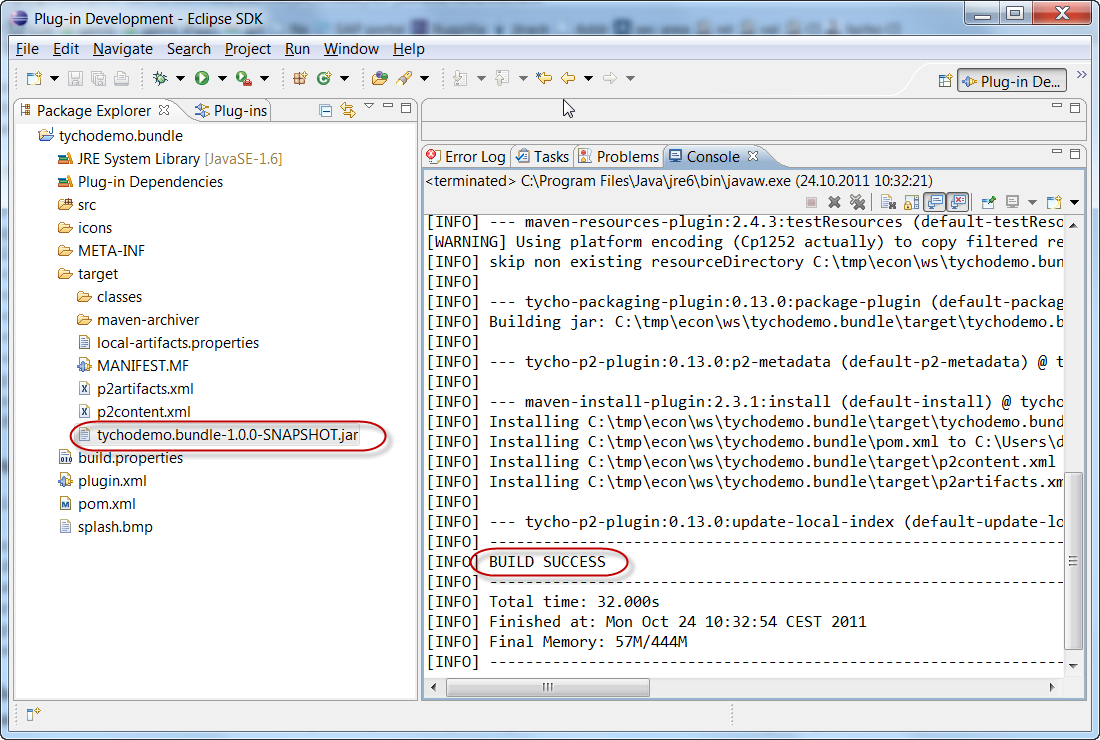
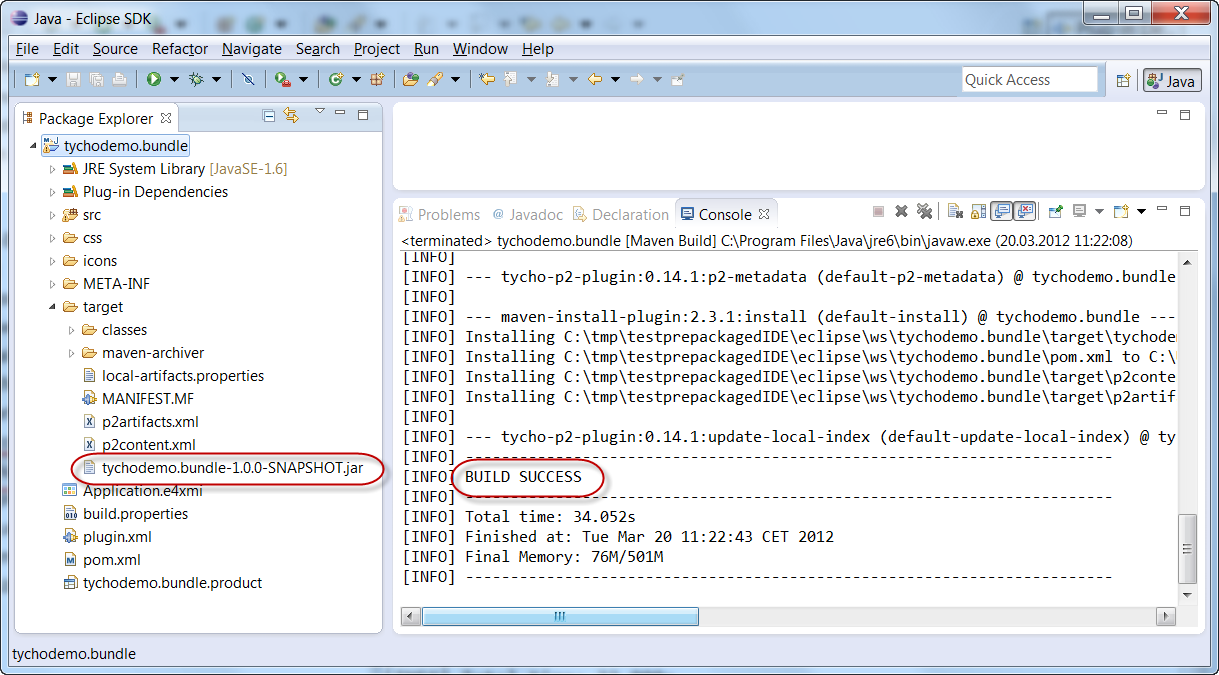
Update exercise 1 to use e4 RCP

diff --git a/exercises/Exercise_01_Create_RCP_Bundle/README.html b/exercises/Exercise_01_Create_RCP_Bundle/README.html
@@ -1,72 +1,70 @@
 <!DOCTYPE html PUBLIC "-//W3C//DTD XHTML 1.0 Transitional//EN" "http://www.w3.org/TR/xhtml1/DTD/xhtml1-transitional.dtd">
 <html xmlns="http://www.w3.org/1999/xhtml">
 <head>
-<title>EclipseCon 2011 Tycho Tutorial - Exercise 1</title>
+<title>EclipseCon 2012 Tycho Tutorial - Exercise 1</title>
 </head>
 <body>
 <p align="center">
  <a href="../../README.html">TOC</a> | <a href="../Exercise_02_Add_Test_Fragment/tychodemo.parent/README.html">Next Exercise&gt;</a> 
 </p>
-<h2>Exercise 1: Create and build a "Hello World" RCP plugin using Tycho</h2>
+<h2>Exercise 1: Create and build a "Hello World" e4 RCP plugin using Tycho</h2>
 
-In this exercise, we will use the project templates shipped with eclipse to create a simple "Hello World" Rich Client Platform plugin.<br/>
-We will compile and run the plugin from the IDE and then show how to build it with tycho by simply adding a Maven <tt>pom.xml</tt> project file.
+In this exercise, we will use the e4 tools to create a simple "Hello World" e4 Rich Client Platform plugin.<br/>
+We will compile and run the plugin from the IDE and then show how to build it with tycho by converting it to Maven project.
 <ol>
-<li>Create a new plugin project with name <tt>tychodemo.bundle</tt>
+<li>Create a new e4 Application with name <tt>tychodemo.bundle</tt>
 <ul>
-<li><tt>File > New > Project > Plugin Project</tt></li>
-<li>Choose "Create a rich client application" and use the "Hello RCP" template to create a hello-world RCP bundle</li>
-<li>Enter window title "Tycho Demo RCP"</li>
-<li>Check "Add branding" (Note: we will need this later when building a product)</li>
+<li><tt>File > New > Project > e4 > e4 Application Project</tt></li>
+<li>Enter "tychodemo.bundle" as project name</li>
+<li>In "Content", enter Name: "Tycho Demo Bundle"</li>
+<li>In "e4 Application", keep all default values and press Finish</li>
 <table>
 <tr>
-<td valign="top"><img src ="resources/create_plugin_0.png" /></td>
-<td valign="top"><img src ="resources/create_plugin_1.png" /></td>
+<td valign="top"><img src ="resources/new_e4_app.png" /></td>
+<td valign="top"><img src ="resources/new_e4_app_1.png" /></td>
 </tr>
 <tr>
-<td valign="top"><img src ="resources/create_plugin_2.png" /></td>
-<td valign="top"><img src ="resources/create_plugin_3.png" /></td>
+<td valign="top"><img src ="resources/new_e4_app_2.png" /></td>
+<td valign="top"><img src ="resources/new_e4_app_3.png" /></td>
 </tr>
 </table>
 </ul>
 <li>Run the application to check if it works:
 <ul>
- <li>Create a new "Eclipse Application" launch configuration using <tt>Run > Run Configurations... > Eclipse Application > New</tt></li>
- <li>Choose "Run a product" and select <tt>tychodemo.bundle.product</tt><br/>
- <img src="resources/run_configuration.png"/>
+ <li>Open the Product definition file <tt>tychodemo.bundle.product</tt>, tab "Overview"</li>
+ <li>Enter ID "tychodemo.product" and press "Launch an Eclipse application"<br/>
+ <img src="resources/product_1.png"/>
  </li>
  
- <li>You should see a splash screen followed by an empty RCP window with title "Tycho Demo RCP".<br/>
-  <img src="resources/rcp_screen.png"/>
+ <li>You should see a small RCP window with title "tychodemo.bundle".<br/>
+  <img src="resources/screenshot_1.png"/>
 
    </li>
- <li>Hint: to avoid starting lots of unneeded bundles slowing down startup:
-      <ul>
-	   <li>go to the Plug-ins tab of the launch configuration</li>
-       <li>under "Launch with:", select "Plug-ins selected below only"</li>
-       <li>uncheck all plugins in the target platform and only check "tychodemo.bundle" from the workspace</li>
-       <li>press "Add Required Plug-ins"</li>
-	   </ul>
-   Now only the plugins (transitively) required by <tt>tychodemo.bundle</tt> will be started.
+ <li>Open the <tt>Help > About</tt> menu. A dialog box should appear:<br/>
+  <img src="resources/about_1.png"/>
+ 
+ </li>
+ <li>Open <tt>tychodemo.bundle.handlers.AboutHandler</tt> and change the about text from <tt>"e4 Application example."</tt> to <tt>"Tycho Demo RCP"</tt><br/>
+ <img src ="resources/about_2.png" /></li>
+<li>Open <tt>tychodemo.bundle.product</tt> and launch the Eclipse application again. Open the <tt>Help > About</tt> dialog. You should see your message now: <br/>
+<img src ="resources/about_3.png" />
  </li>
  </ul>
- <li>Add a maven project file <tt>pom.xml</tt> in the root of the project using <tt>File > New > File > pom.xml</tt> and paste the following content:
-<pre>
-&lt;?xml version="1.0" encoding="UTF-8"?&gt;
-&lt;project
-  xsi:schemaLocation="http://maven.apache.org/POM/4.0.0 http://maven.apache.org/xsd/maven-4.0.0.xsd" xmlns="http://maven.apache.org/POM/4.0.0" xmlns:xsi="http://www.w3.org/2001/XMLSchema-instance"&gt;
-  &lt;modelVersion&gt;4.0.0&lt;/modelVersion&gt;
-  
-  &lt;groupId&gt;tychodemo&lt;/groupId&gt;
-  &lt;artifactId&gt;tychodemo.bundle&lt;/artifactId&gt;
-  &lt;version&gt;1.0.0-SNAPSHOT&lt;/version&gt;
-  
-  &lt;packaging&gt;eclipse-plugin&lt;/packaging&gt;
-&lt;/project&gt;
-</pre>
-</li>
+ <li>Right-click the <tt>tychodemo.bundle</tt> project and select <tt>Configure > Convert to Maven Project</tt><br/>
+   <img src ="resources/convert_to_maven_1.png" />
+ </li>
+ <li>Enter <tt>Group Id: tychodemo</tt>, <tt>Version: 1.0.0-SNAPSHOT</tt>, <tt>Packaging: eclipse-plugin</tt>.<br/>
+   <img src ="resources/convert_to_maven_2.png" />
+ </li>
  Note that <tt>MANIFEST/Bundle-SymbolicName == POM/artifactId</tt> and <tt>MANIFEST/&lt;Bundle-Version&gt;.qualifier == POM/&lt;version&gt;-SNAPSHOT</tt>
-
+<li>
+You will get a build error on the newly created file <tt>pom.xml</tt>: <tt>"Project build error: Unknown packaging: eclipse-plugin"</tt>.<br/>
+This is expected, because the tycho build extension is not yet configured (see next steps).<br/>
+   <img src ="resources/build_error.png" />
+</li>
+ 
+<li>Open <tt>pom.xml</tt>, go to Tab "pom.xml". Remove the complete <tt>&lt;build&gt;</tt> element (this is an <a href="https://bugs.eclipse.org/bugs/show_bug.cgi?id=374742">m2eclipse bug</a>).<br/>
+   <img src ="resources/remove_build_section.png" />
 <li> To define the tycho version to be used, add this snippet into <tt>&lt;project&gt;</tt> :
 
 <pre>
@@ -92,46 +90,42 @@ We will compile and run the plugin from the IDE and then show how to build it wi
 </pre>
 </li>
 
-<li> To build against the Indigo p2 repository, add this snippet in <tt>&lt;project&gt;</tt>:
-
+<li>Make your build network-independent:
+<ul>
+<li>
+To build against your local p2 repository, add this snippet in <tt>&lt;project&gt;</tt> and change the file URL to point to the folder <tt>tutorial/p2_repository/</tt> which you copied earlier from the USB stick:
 <pre>
   &lt;repositories&gt;
     &lt;!-- configure p2 repository to resolve against --&gt;
     &lt;repository&gt;
-      &lt;id&gt;indigo&lt;/id&gt;
+      &lt;id&gt;juno-local&lt;/id&gt;
       &lt;layout&gt;p2&lt;/layout&gt;
-      &lt;url&gt;http://download.eclipse.org/releases/indigo/&lt;/url&gt;
+      &lt;url&gt;file:/PATH/TO/tutorial/p2_repository/&lt;/url&gt;
     &lt;/repository&gt;
   &lt;/repositories&gt;
 </pre>
-NOTE: Should the Indigo p2 repository be too slow/unavailable, you may get an error like <br/>
-<img src="resources/indigo_failed.png"/>
 <br/>
-
-
-        In this case, you can use a local p2 repository as a fallback.<br/> Enter the file URL to the folder <tt>tutorial/repository/</tt> which 
-		you copied from the USB stick during setup:
+Note: The local p2 repository we provide on the USB stick is a subset mirrored from the <a href="http://download.eclipse.org/releases/juno/">Juno p2 repository</a>.<br/>
+Using the local p2 repository avoids network problems during the tutorial and works around one open <a href="https://bugs.eclipse.org/bugs/show_bug.cgi?id=355433 ">bug in the Juno p2 repo</a>.
+	
 </li>
 
-		<pre>
-  &lt;repositories&gt;
-    &lt;!-- resolve against local p2 repository --&gt;
-    &lt;repository&gt;
-      &lt;id&gt;indigo_local&lt;/id&gt;
-      &lt;layout&gt;p2&lt;/layout&gt;
-      &lt;url&gt;file:/absolute/path/to/repository-folder/copied/from/usb-stick/&lt;/url&gt;
-    &lt;/repository&gt;
-  &lt;/repositories&gt;
-		</pre>
-  Should <tt><a href="http://repo1.maven.org">Maven Central (http://repo1.maven.org)</a></tt> be too slow or unavailable, you can use a pre-filled local maven repository as fallback.<br/>
-  In this case, copy the content of folder <tt>tutorial/maven_repository</tt> to <tt>${user.home}/.m2/repository</tt>.
-
-<li> Right-click pom.xml <tt>Run As > Maven install</tt> (or run <tt>mvn install</tt> on the command prompt)<br/>
-<img src="resources/run_maven_install.png"/>
+<li> To be independent of network access to <tt><a href="http://repo1.maven.org">Maven Central (http://repo1.maven.org)</a></tt>, use the pre-filled local maven repository from the USB stick:<br/>
+Copy the content of folder <tt>tutorial/maven_repository</tt> to <tt>~/.m2/repository/</tt> (Linux/Mac) or <tt>%USERPROFILE%/.m2/repository/</tt> (Windows).
+</li>
+</ul>
 </li>
 
-<li> expected result is a <tt>SUCCESSFUL</tt> build with the bundle jar 
+<li> Right-click the tychodemo.bundle project and select <tt>Run As > Maven build</tt> <br/>
+<img src="resources/run_maven_1.png"/>
+</li>
+<li> Enter  <tt>Goals: clean install</tt> <br/>
+<img src="resources/run_maven_2.png"/>
+</li>
+
+<li> Expected result is a <tt>SUCCESSFUL</tt> build with the bundle jar 
   <tt>tychodemo.bundle-1.0.0-SNAPSHOT.jar</tt> in the <tt>target/</tt> folder of the project <br/>
+  (you may have to refresh the project to display the <tt>target/</tt> folder)<br/>
 <img src="resources/build_success.png"/>
   </li>
 </ol>

diff --git a/README.html b/README.html
@@ -1,14 +1,14 @@
 <!DOCTYPE html PUBLIC "-//W3C//DTD XHTML 1.0 Transitional//EN" "http://www.w3.org/TR/xhtml1/DTD/xhtml1-transitional.dtd">
 <html xmlns="http://www.w3.org/1999/xhtml">
 <head>
-<title>EclipseCon 2011 Tycho Tutorial</title>
+<title>EclipseCon 2012 Tycho Tutorial</title>
 </head>
 <body>
-<h1>EclipseCon 2011 Tycho Tutorial</h1>
+<h1>EclipseCon 2012 Tycho Tutorial</h1>
 <h2>Setup/Prerequisites</h2>
 
 <ol>
-<li>You need an Indigo SR1 eclipse classic SDK + m2eclipse + m2e Tycho configurators installed.<br/>
+<li>You need a Juno M6 eclipse classic SDK  with m2eclipse, m2e Tycho configurators and e4 Tools installed.<br/>
    For your convenience, we provide <a href="../">pre-packaged zips/tarballs</a> with this installation in the root folder of the USB stick. </li>
 <li>Copy and unpack the eclipse SDK archive for your platform and start it.<br/> NOTE: for the 64-bit versions you will need a 64-bit JVM installed</li>
 <li>Copy folder <tt>tutorial/</tt> to your local harddrive, e.g. to <tt>c:\tmp</tt> or <tt>/tmp</tt></li>
@@ -16,30 +16,28 @@
 
 
 <h2>Exercises Overview:
-Building an RCP application in six step-by-step exercises</h2>
+Building an e4 RCP application in five step-by-step exercises</h2>
 
 The hands-on exercises will guide you through setting up a 
-typical Tycho project for an RCP application.<br/>
+typical Tycho project for an e4 RCP application.<br/>
 <ul>
-<li>We start from scratch with a small "Hello World" RCP plugin,</li>
+<li>We start from scratch with a small "Hello World" e4 RCP plugin,</li>
 <li>Add a simple unit test to make sure the plugin works, and</li>
 <li>Create a feature for grouping the plugins we want to deliver.</li>
 <li>Then, we create a p2 repository/update site containing our feature(s)
 and bundles, and </li>
-<li>Add a product with native launcher binaries, branding etc.</li>
-<li>Finally, we make sure that other developers can also work on the RCP application project by using a target file to define the target platform.</li>
+<li>Finally, build a self-contained installable product complete with native launcher binaries, branding etc.</li>
 </ul>
 
 <h2>Table Of Contents</h2>
-The exercises consist of six steps:
+The exercises consist of five steps:
 <ol>
-<li> <a href="exercises/Exercise_01_Create_RCP_Bundle/README.html">Build a simple RCP plugin</a></li>
+<li> <a href="exercises/Exercise_01_Create_RCP_Bundle/README.html">Build a simple e4 RCP plugin</a></li>
 <li> <a href="exercises/Exercise_02_Add_Test_Fragment/tychodemo.parent/README.html">Build and execute a simple test</a></li>
 <li> <a href="exercises/Exercise_03_Add_Feature/tychodemo.parent/README.html">Add a feature</a></li>
 <li> <a href="exercises/Exercise_04_Add_P2_Repository/tychodemo.parent/README.html">Add a repository</a></li>
-<li> <a href="exercises/Exercise_05_Add_Product/tychodemo.parent/README.html">Add a product</a>
-<li> <a href="exercises/Exercise_06_Use_Target_File/tychodemo.parent/README.html">Use a target file</a>
-  (<a href="exercises/Exercise_06_Solution/">solution</a>)</li>
+<li> <a href="exercises/Exercise_05_Add_Product/tychodemo.parent/README.html">Build a product</a>
+  (<a href="exercises/Exercise_05_Solution/">solution</a>)</li>
 </ol>
 <br/>
 
